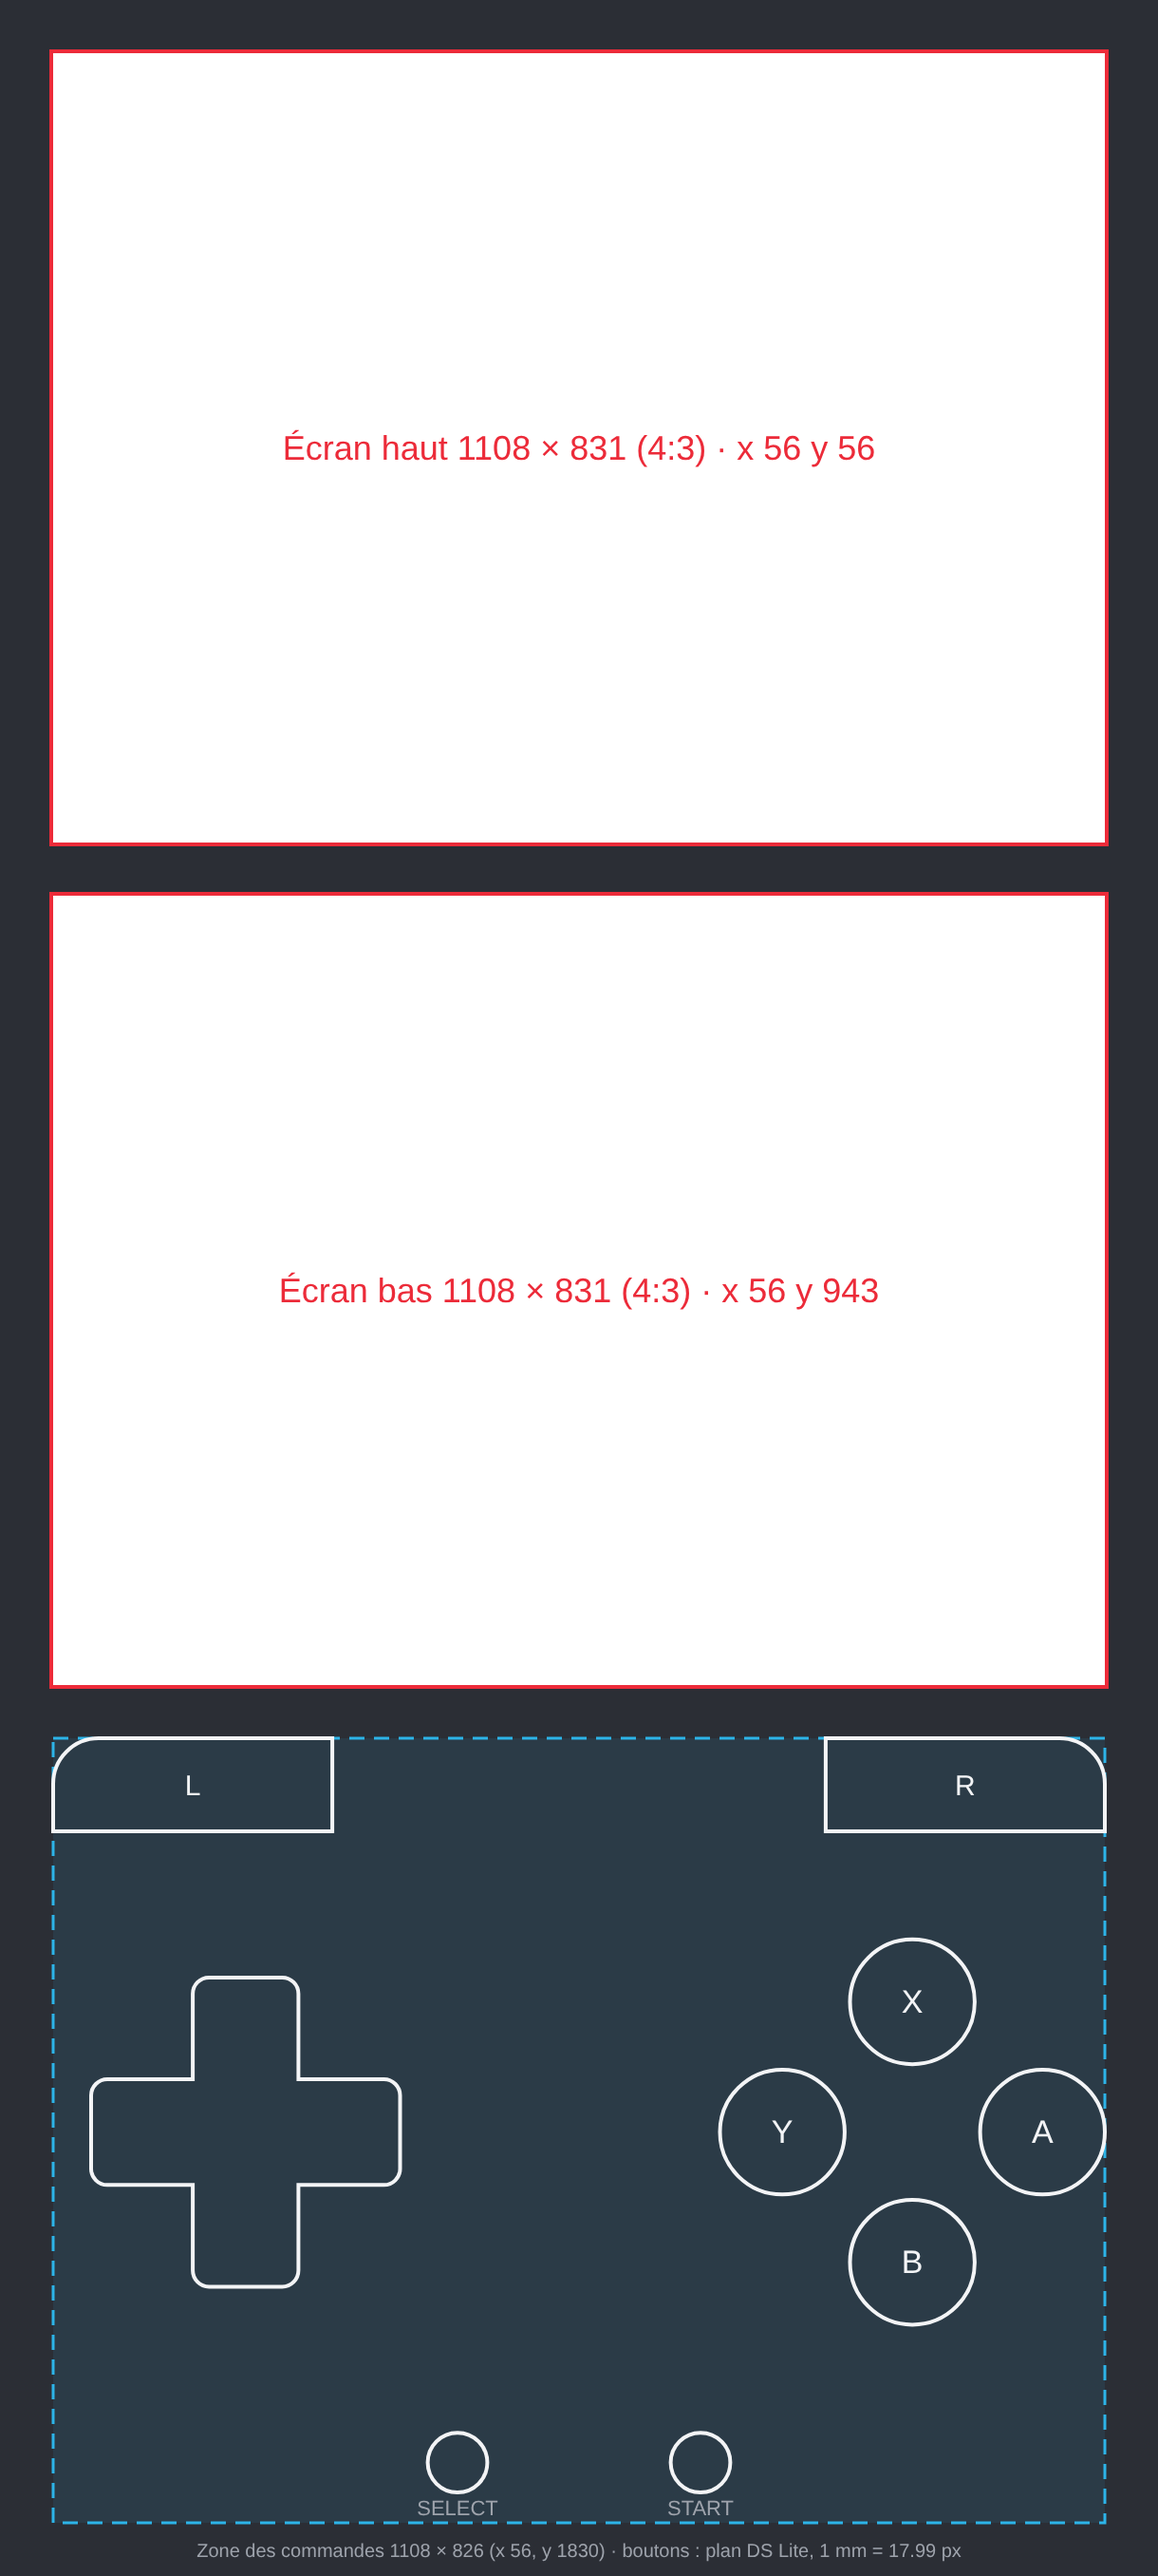
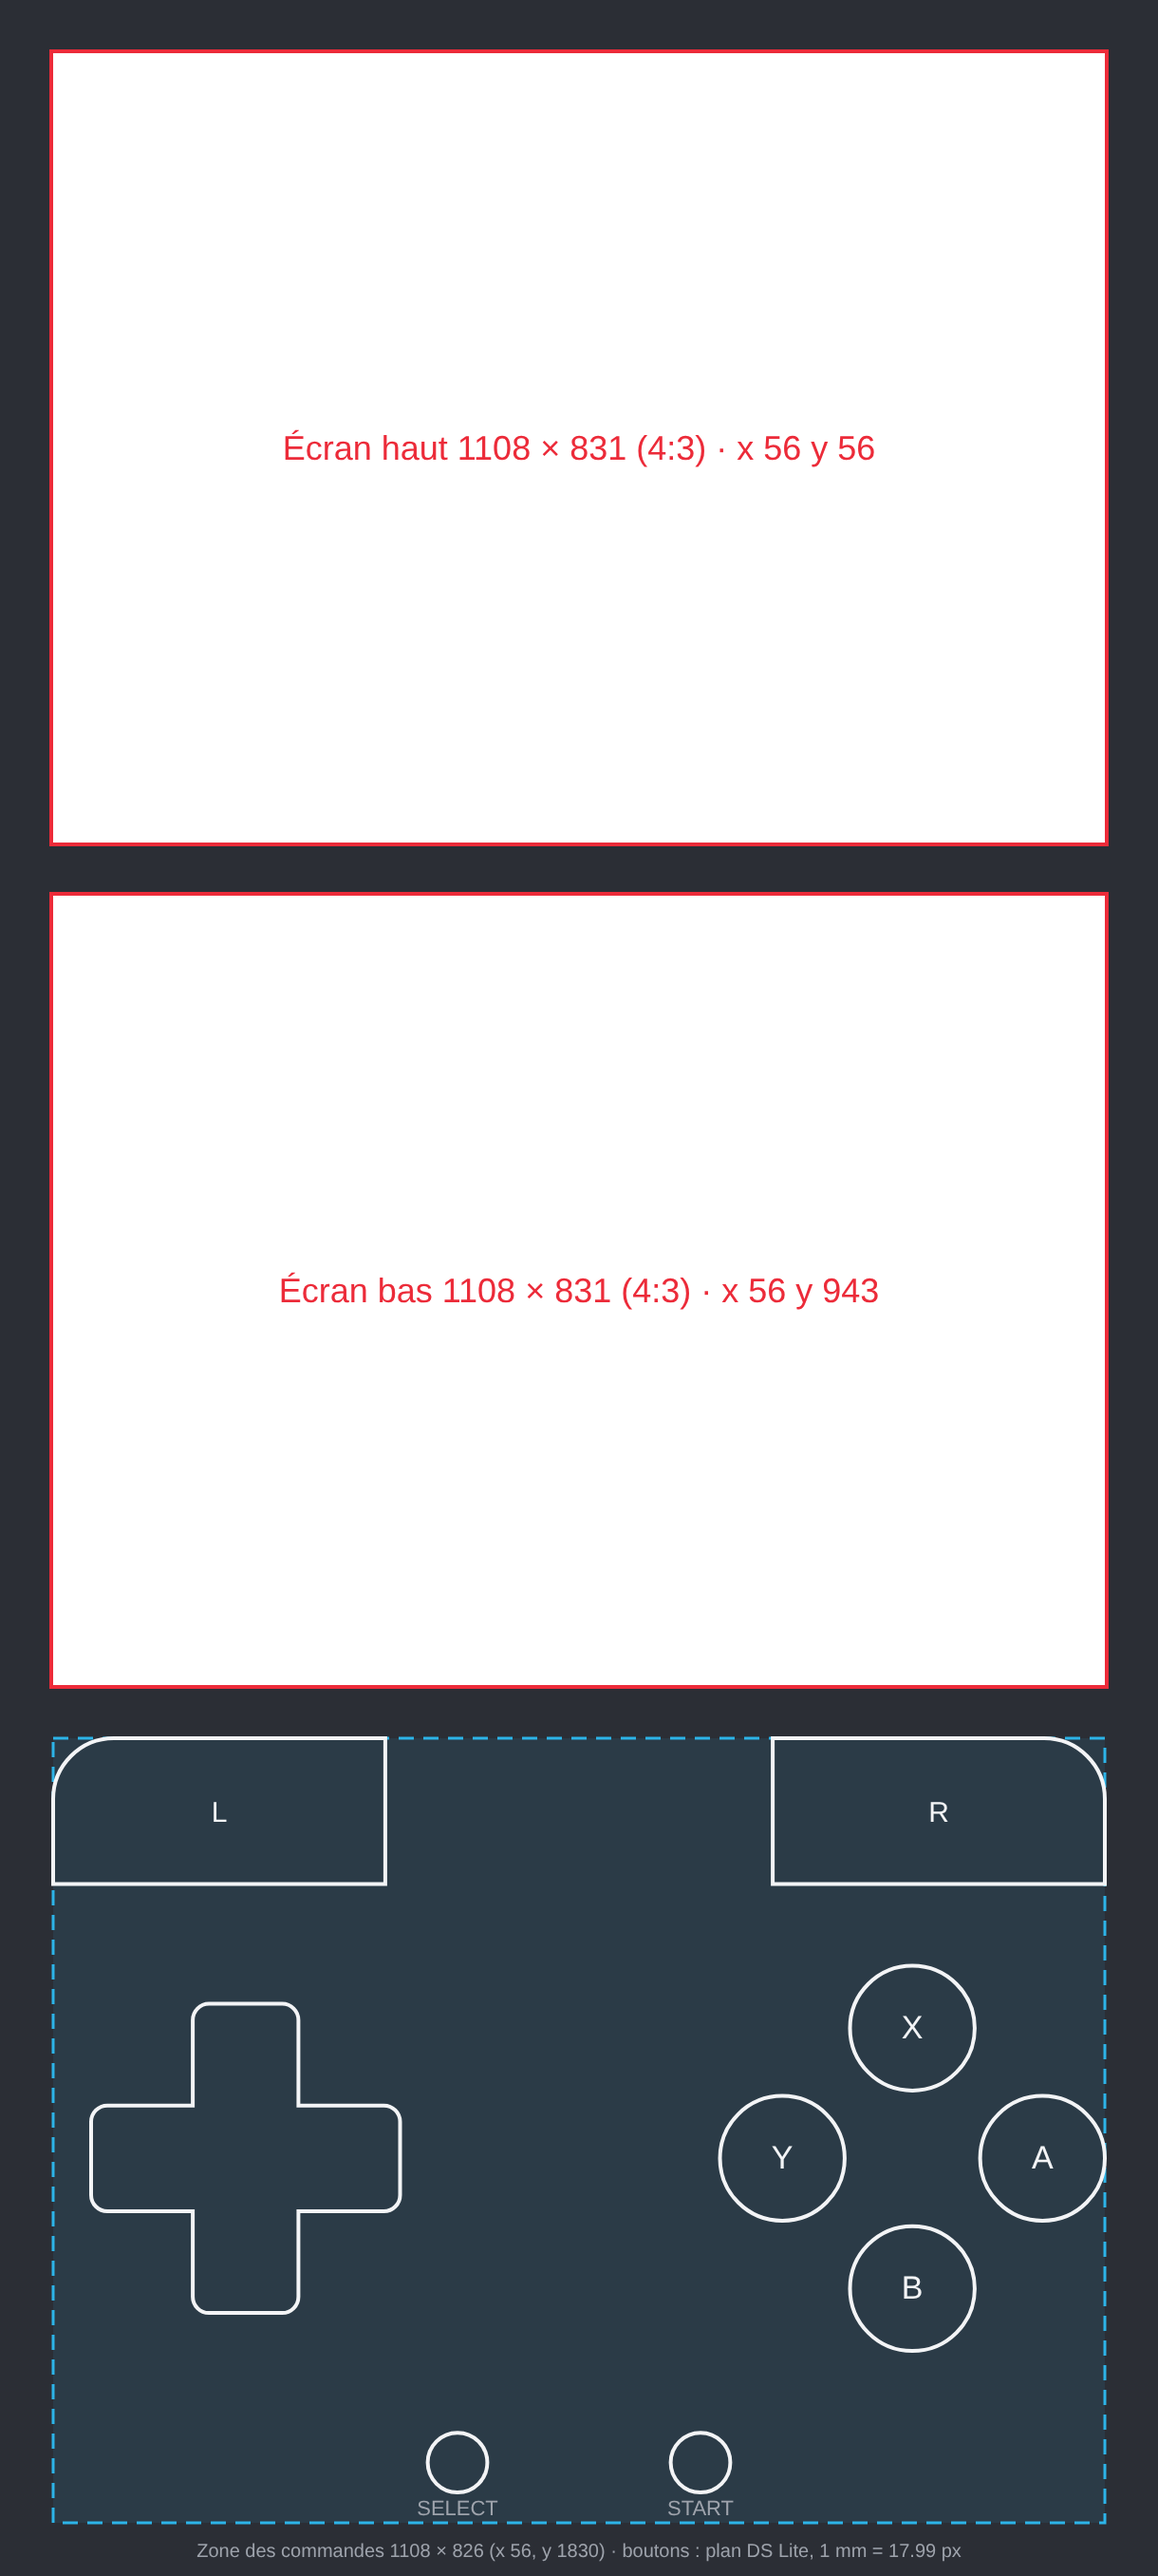
DS Classic: L and R at the DS Lite's real size, from its back view
Owner's photo of a DS Lite's back, straight on: the 133 mm body is 889 px,
L and R 130 x 57 px (19.5 x 8.5 mm; 2.28:1), flat at the bottom, the outer
top corner rounded over about half the height (29 px). At the plan's
17.99 px / mm: 350 x 153, corner 78 -> 64 on the scale. The plan only gave
the hinge's end seen from the front (294 px wide), and the height had been
guessed (3:1). The D-pad and ABXY, centred between the bumpers and SELECT /
START, move down 28 px. The four utility buttons between L and R shrink to
80 px with 16 between them so their row (368) fits the 408 px left between
the bumpers.

Claude-Session: https://claude.ai/code/session_01BPwFCEgf2UrCo7R4tPEQGE

diff --git a/melonDS-android/app/src/main/java/me/magnum/melonds/impl/layout/ClassicLayoutProvider.kt b/melonDS-android/app/src/main/java/me/magnum/melonds/impl/layout/ClassicLayoutProvider.kt
@@ -27,17 +27,18 @@ class ClassicLayoutProvider(private val defaultLayoutProvider: DefaultLayoutProv
         // Template rectangles (x, y, width, height), in template pixels
         val TOP_SCREEN = Rect(56, 56, 1108, 831)
         val BOTTOM_SCREEN = Rect(56, 943, 1108, 831)
-        val BUTTON_L = Rect(56, 1830, 294, 98)
-        val BUTTON_R = Rect(870, 1830, 294, 98)
-        val DPAD = Rect(96, 2082, 326, 326)
-        val BUTTONS = Rect(758, 2042, 406, 406)
+        val BUTTON_L = Rect(56, 1830, 350, 153)
+        val BUTTON_R = Rect(814, 1830, 350, 153)
+        val DPAD = Rect(96, 2110, 326, 326)
+        val BUTTONS = Rect(758, 2070, 406, 406)
         val BUTTON_START = Rect(707, 2561, 63, 63)
         val BUTTON_SELECT = Rect(451, 2561, 63, 63)
 
-        // Not on the DS: a row of four between L and R, so every input stays reachable
-        const val UTILITY_SIZE = 96
-        const val UTILITY_SPACING = 24
-        const val UTILITY_TOP = 1830 + (98 - UTILITY_SIZE) / 2
+        // Not on the DS: a row of four between L and R, so every input stays reachable. 80 px with 16 between them,
+        // so the row (368 px) fits the 408 px between the DS Lite-sized bumpers
+        const val UTILITY_SIZE = 80
+        const val UTILITY_SPACING = 16
+        const val UTILITY_TOP = 1830 + (153 - UTILITY_SIZE) / 2
         val UTILITY_COMPONENTS = listOf(
             LayoutComponent.BUTTON_HINGE,
             LayoutComponent.BUTTON_TOGGLE_SOFT_INPUT,
